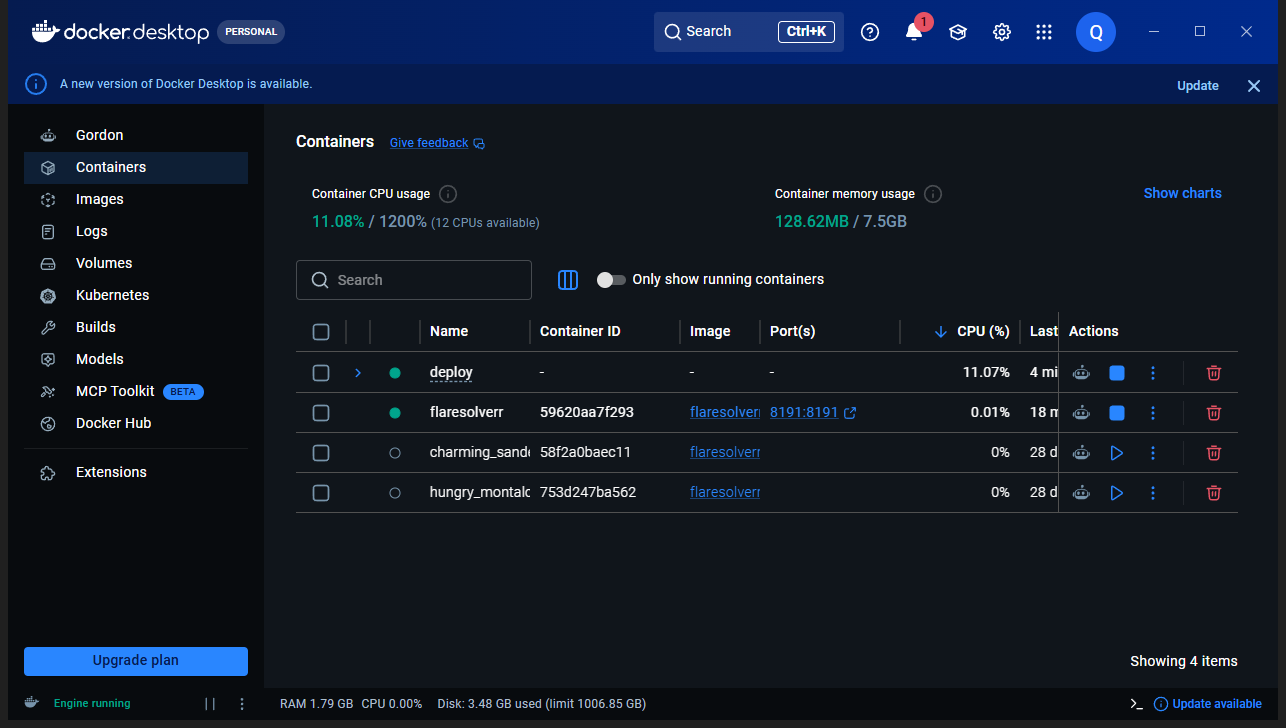
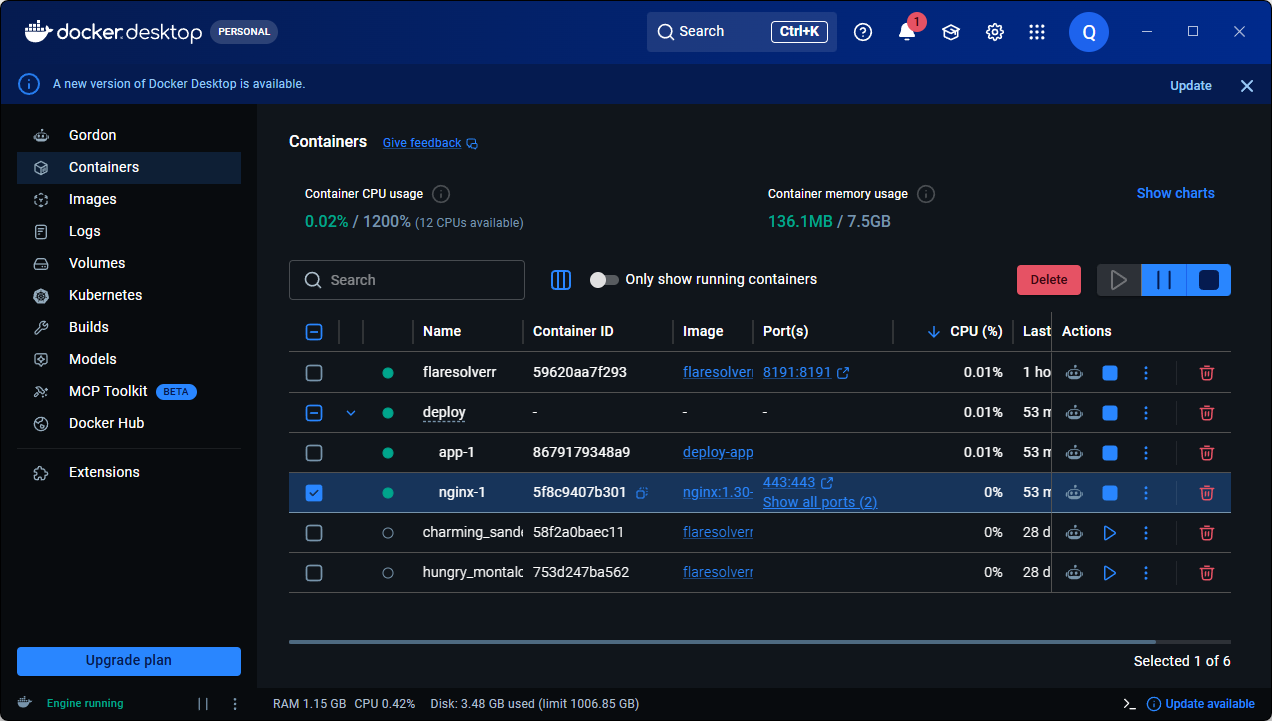
deploy: скриншот Docker Desktop с раскрытой группой и портами

diff --git a/deploy/README.md b/deploy/README.md
@@ -81,7 +81,7 @@ https://music-wiki.localhost
 
 ![Вкладка Network](screenshots/network-api.png)
 
-Контейнеры проекта в Docker Desktop:
+Контейнеры проекта в Docker Desktop. Группа `deploy` раскрыта, в колонке Port(s) у nginx видны открытые порты:
 
 ![Контейнеры в Docker Desktop](screenshots/docker-desktop.png)
 
@@ -104,7 +104,7 @@ https://music-wiki.localhost
 
 3. В Microsoft Edge при запуске DevTools открывалась приветственная вкладка, и переключить ее на панель Network не удалось. Открыл проект в Google Chrome, включил DevTools, перешел на вкладку Network и выбрал запрос `/api/health`. В заголовках ответа виден `X-Robots-Tag: noindex, nofollow`.
 
-4. В Docker Desktop группа `deploy` показана свернутой. Порты контейнеров хорошо видны на скриншоте `docker compose ps`: у app только внутренний порт 5000, у nginx опубликованы `127.0.0.1:80` и `127.0.0.1:443`.
+4. В Docker Desktop контейнеры проекта были собраны в свернутую группу `deploy`, и открытых портов не было видно. Раскрыл группу стрелкой. После этого в списке появились `app-1` и `nginx-1`, а в колонке Port(s) виден порт `443:443` и ссылка `Show all ports (2)`. Полный список портов есть и на скриншоте `docker compose ps`: у app только внутренний порт 5000, у nginx опубликованы `127.0.0.1:80` и `127.0.0.1:443`.
 
 5. При первом запуске контейнера нужно было проверить права на папку `/app/instance`. В Dockerfile папка создается и передается пользователю `appuser`, поэтому SQLite смог создать базы. Внутри контейнера файлы принадлежат `appuser:appuser`.
 
